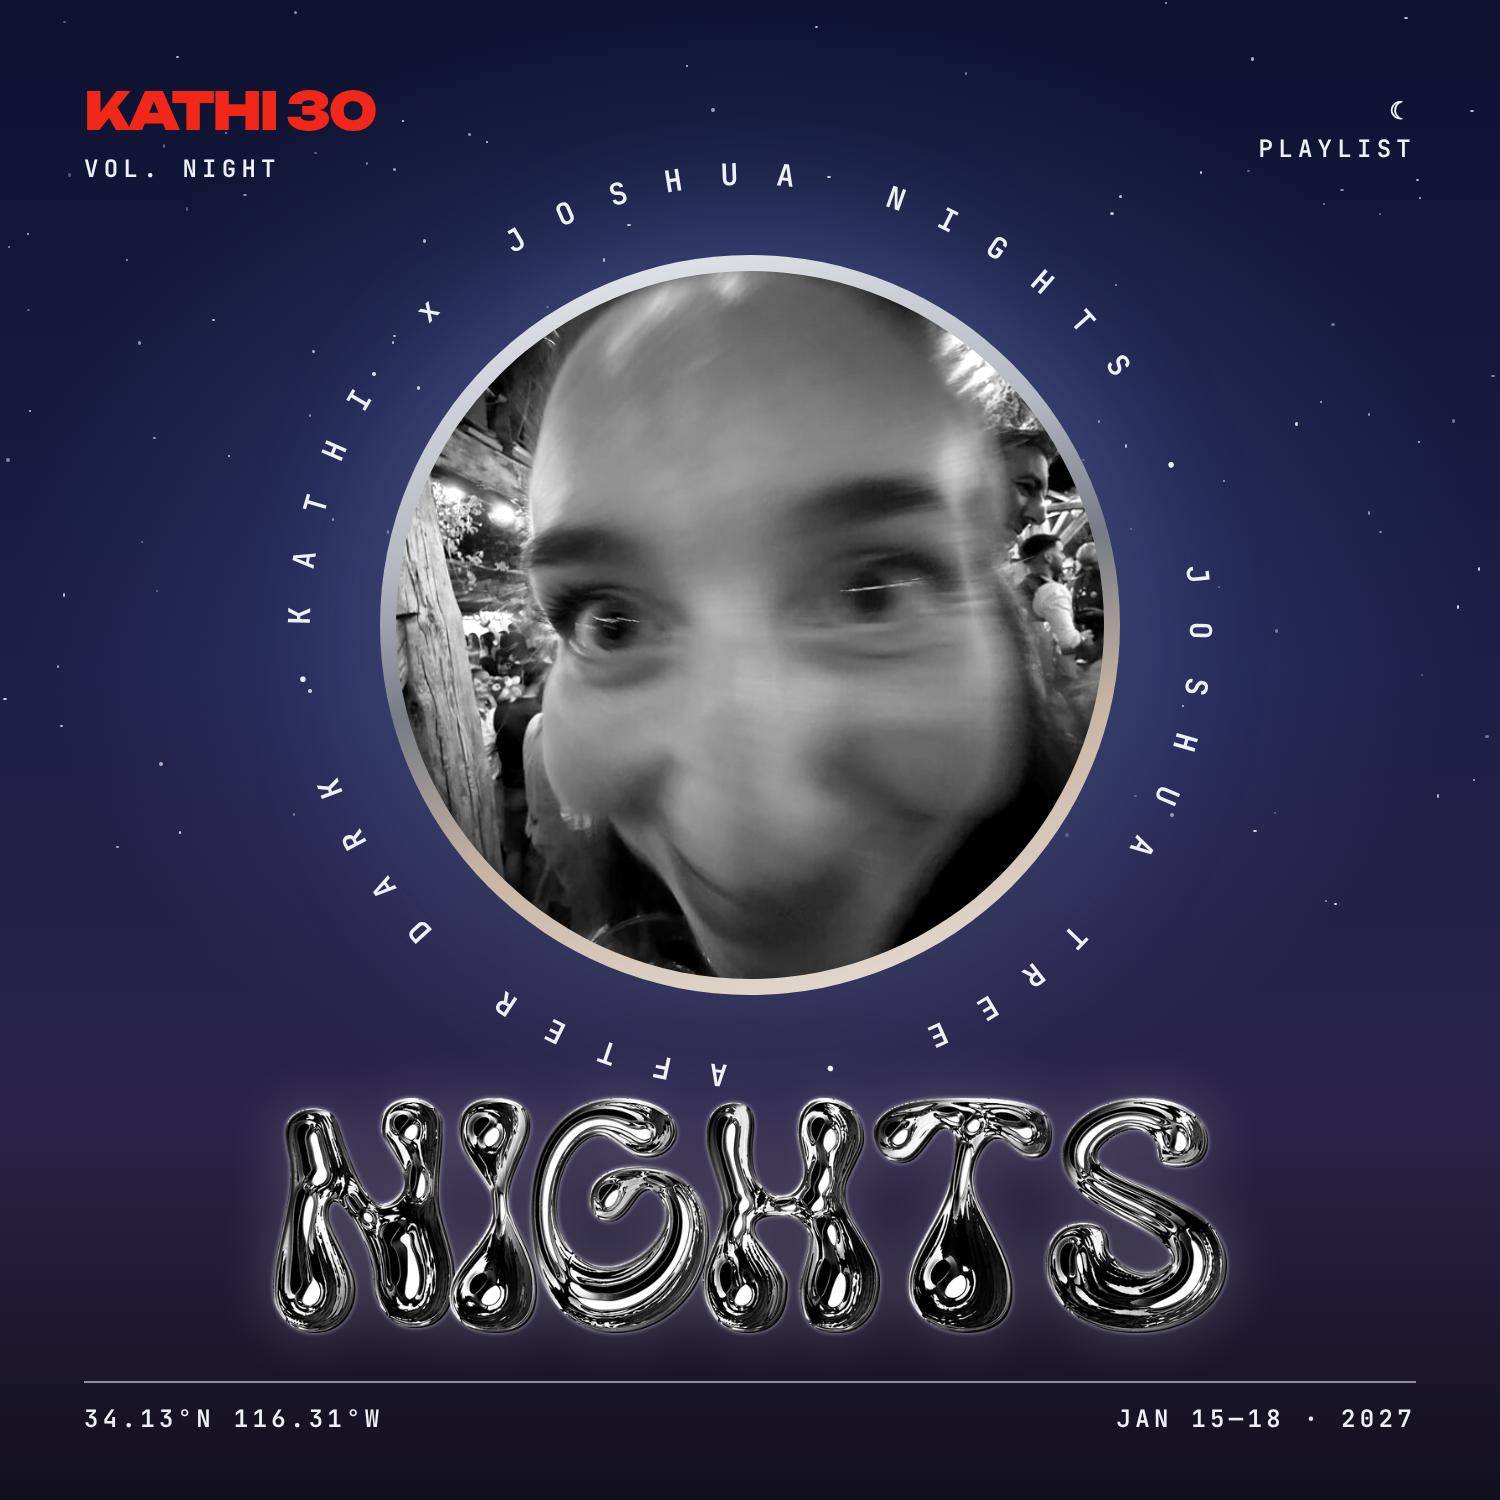
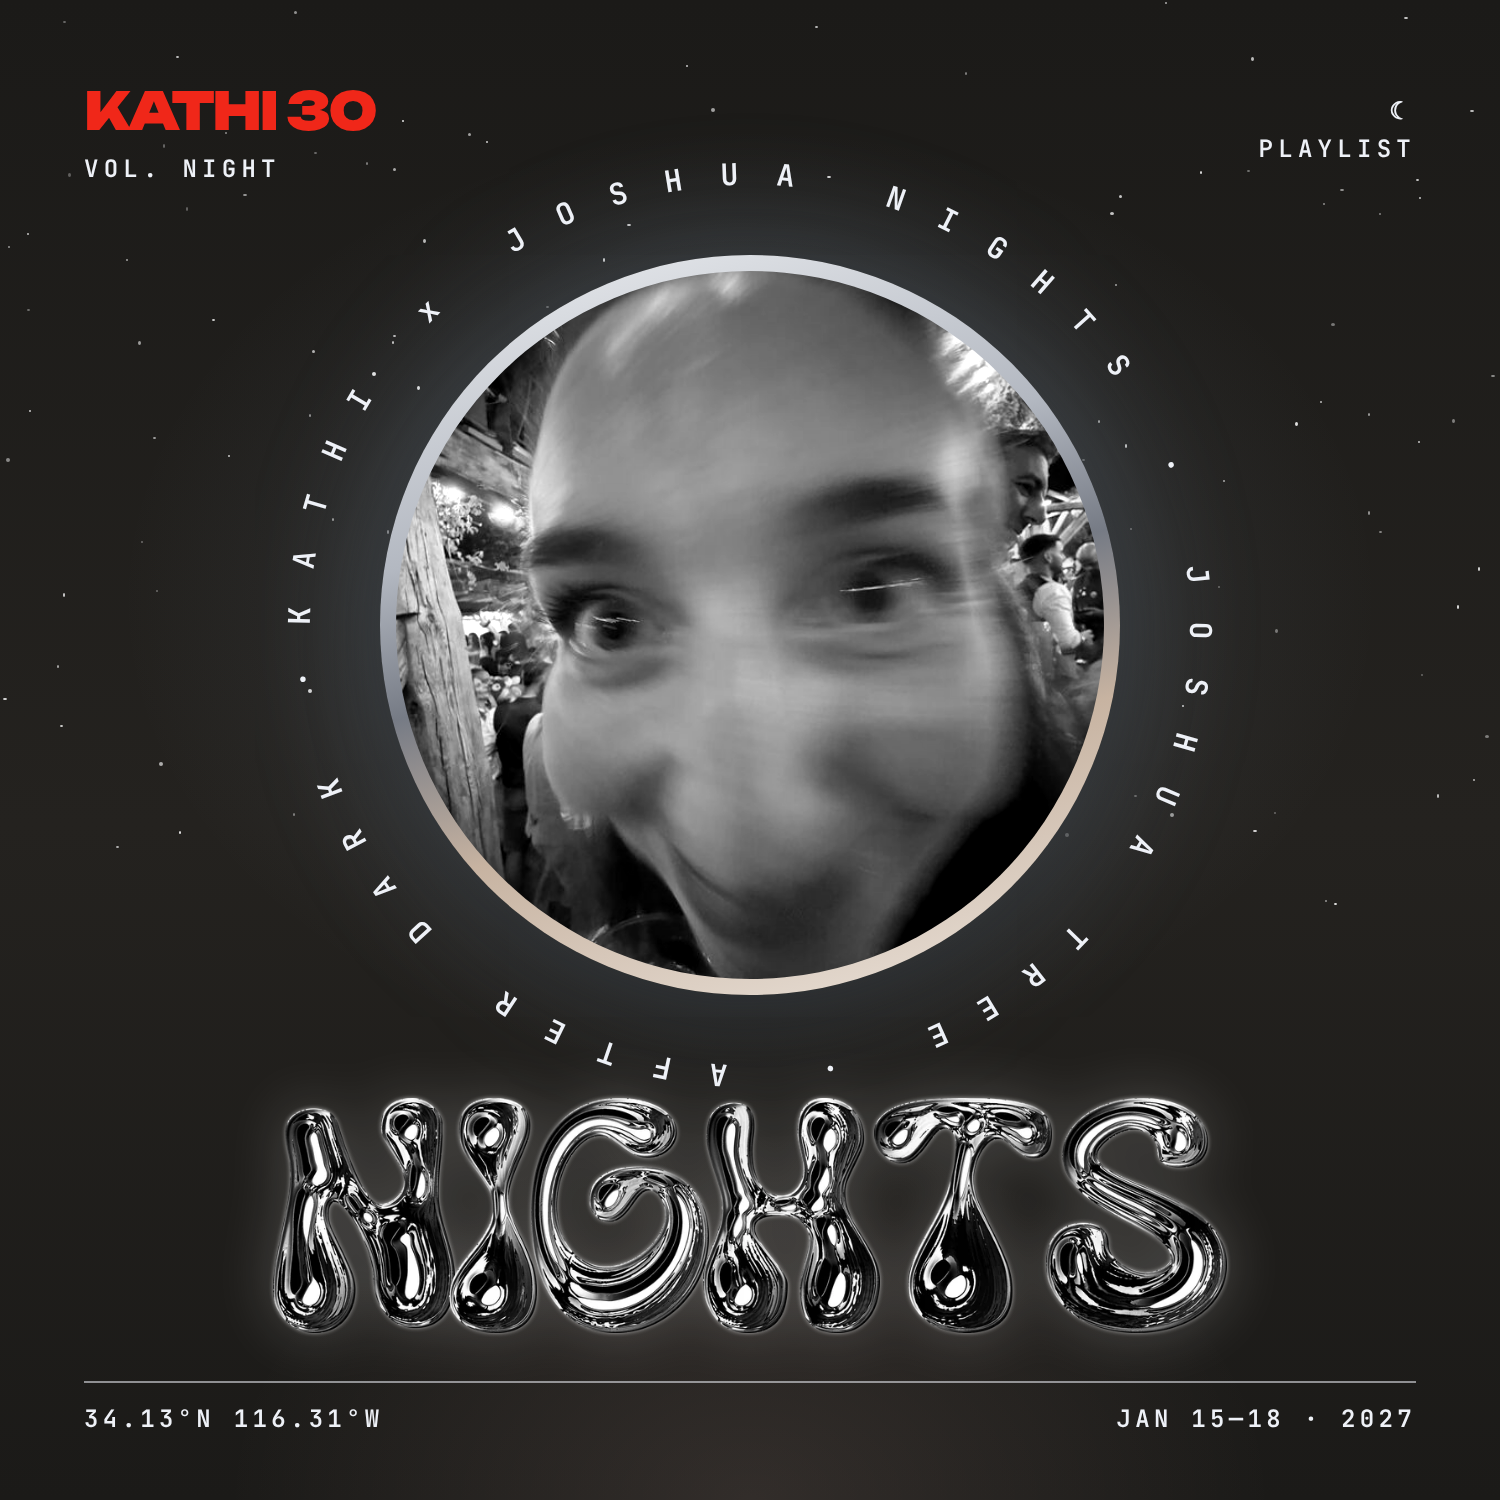
Night cover in the site's warm black
Claude-Session: https://claude.ai/code/session_015srq9B7aamxsEMEASfp4Nc

diff --git a/site/index.html b/site/index.html
@@ -224,7 +224,7 @@
         <span class="pl-title chrome-soft-text">kathi x joshua nights</span>
         <span class="body16">Dinner → dance floor → 2am singalongs. Bangers only, guilty pleasures encouraged.</span>
         <a data-href="nightPlaylistUrl" target="_blank" rel="noopener" class="btn-sm btn-chrome mono self-start">add your song →</a>
-        <a data-href="nightPlaylistUrl" target="_blank" rel="noopener" class="cover"><img src="assets/cover-nights.jpg?v=30" alt="Night playlist cover" loading="lazy" width="800" height="800"></a>
+        <a data-href="nightPlaylistUrl" target="_blank" rel="noopener" class="cover"><img src="assets/cover-nights.jpg?v=31" alt="Night playlist cover" loading="lazy" width="800" height="800"></a>
       </div>
     </div>
   </section>
